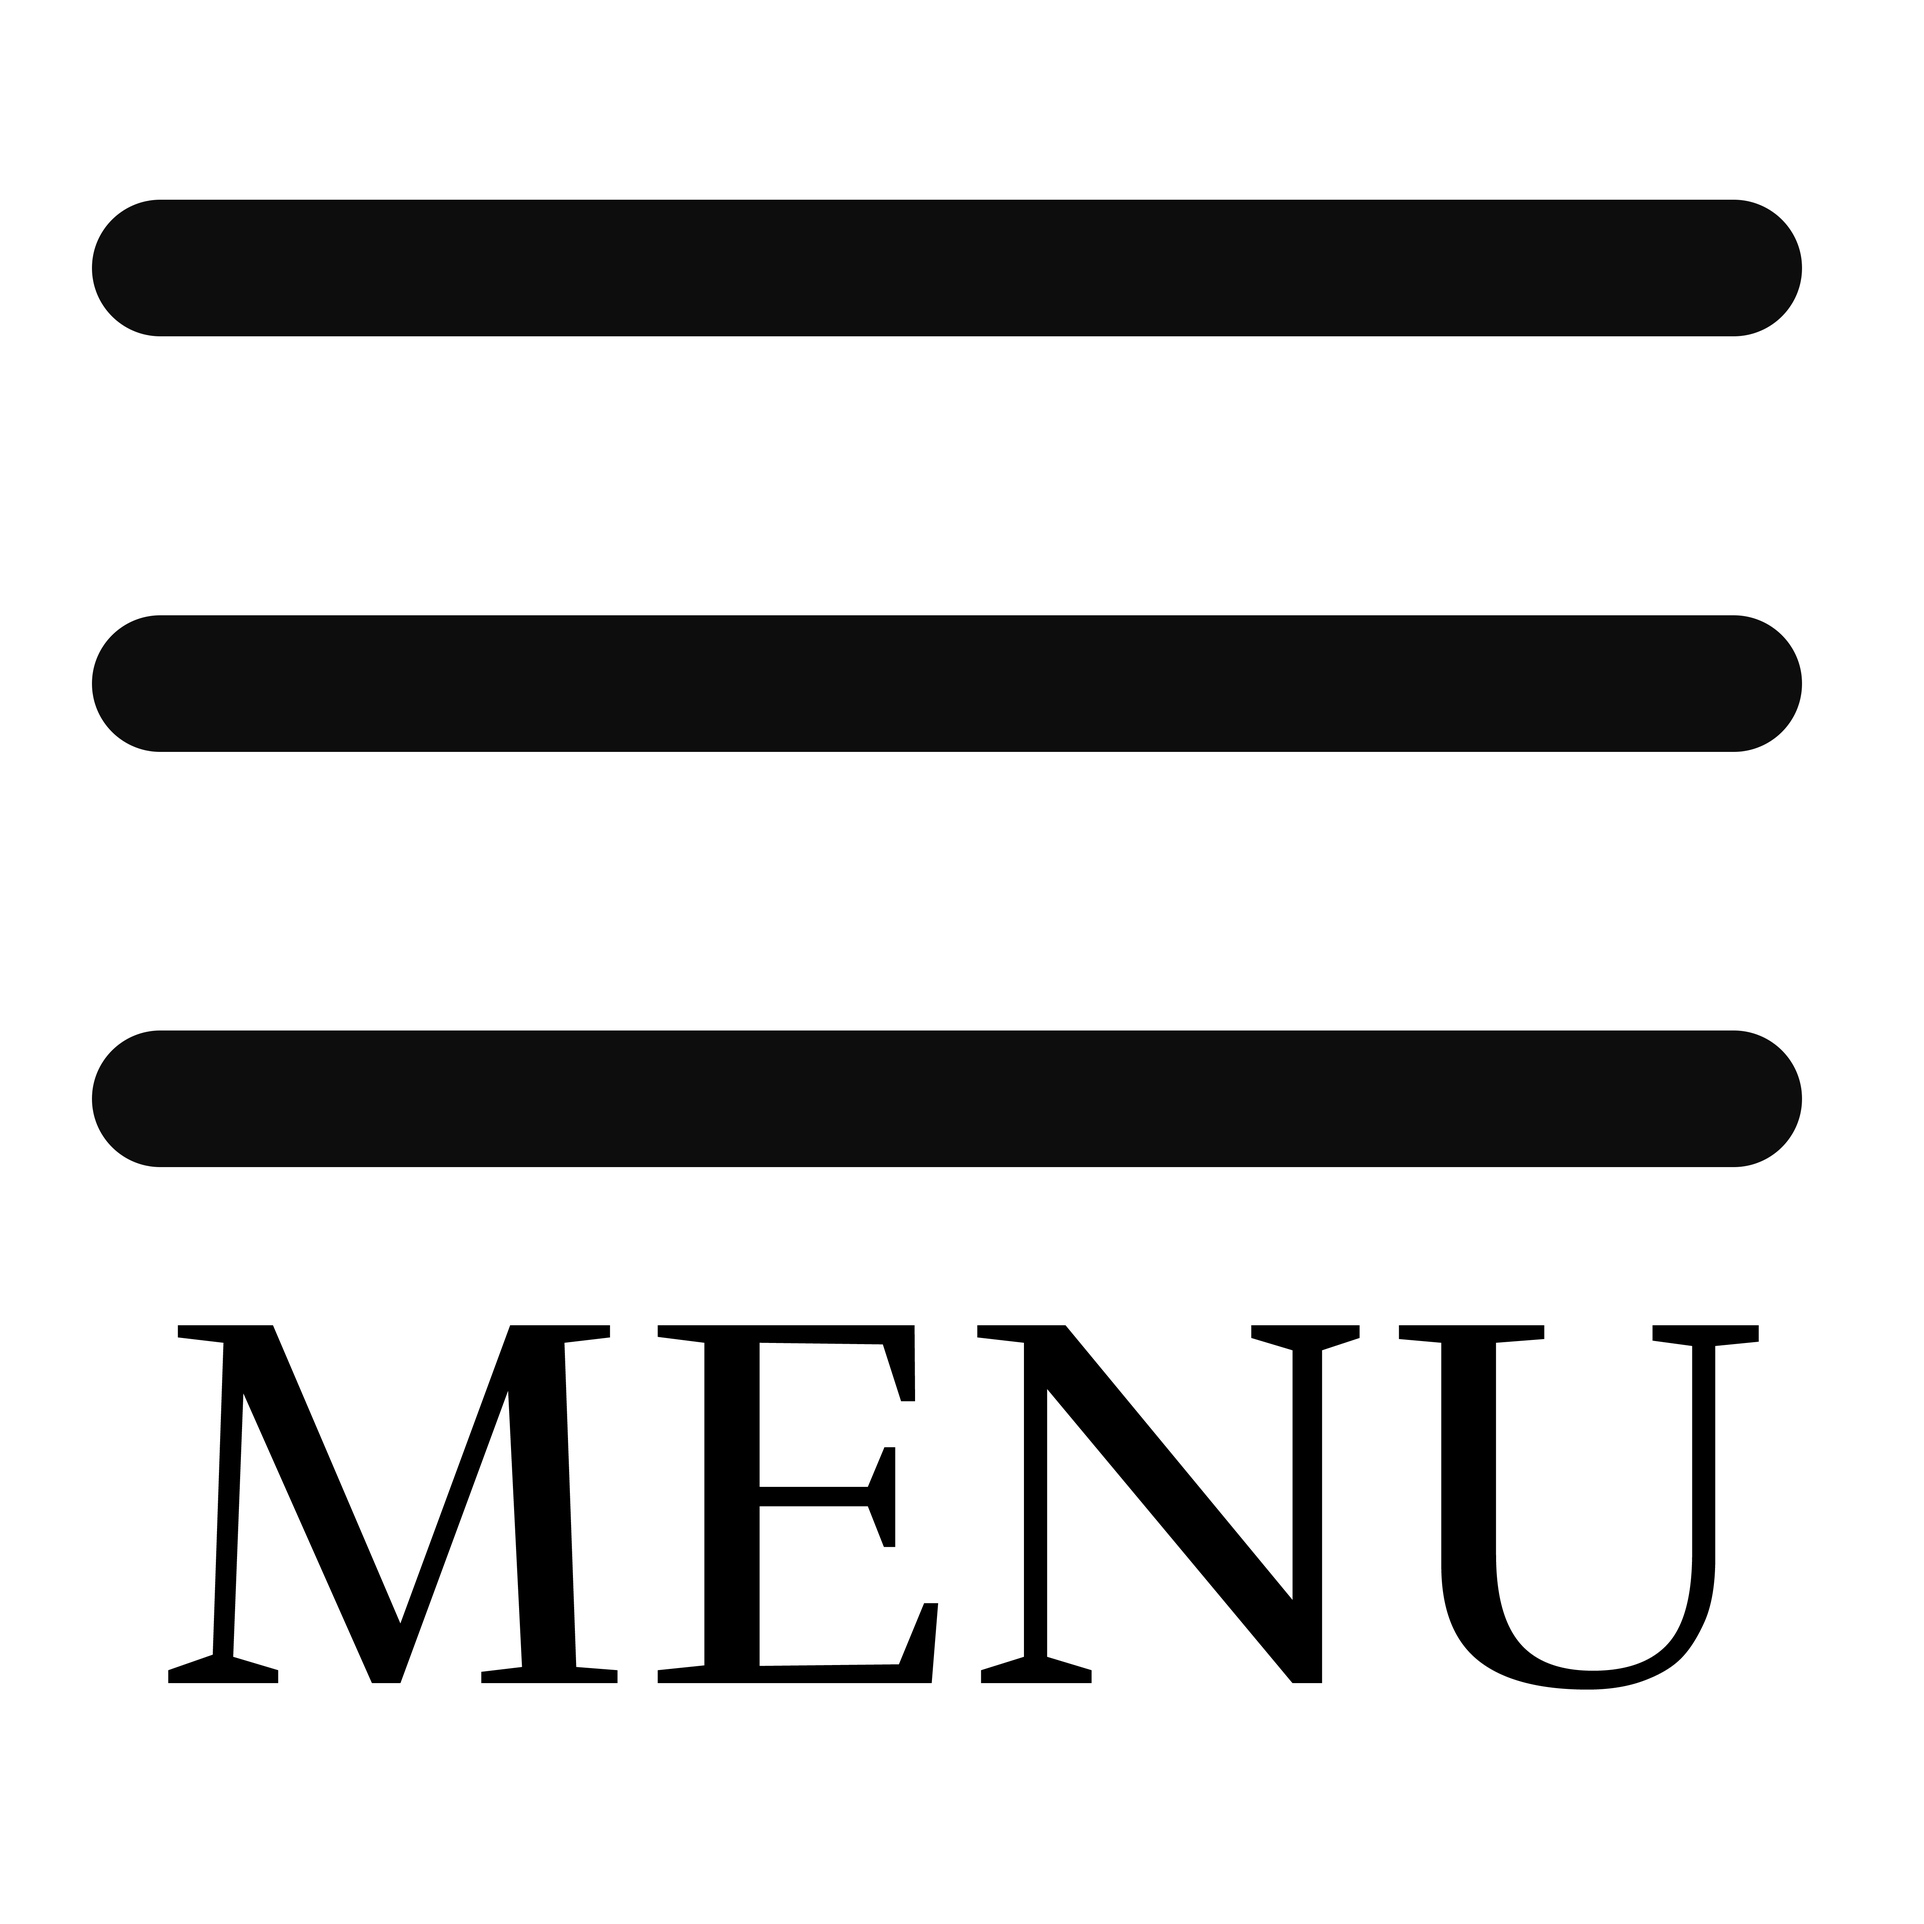
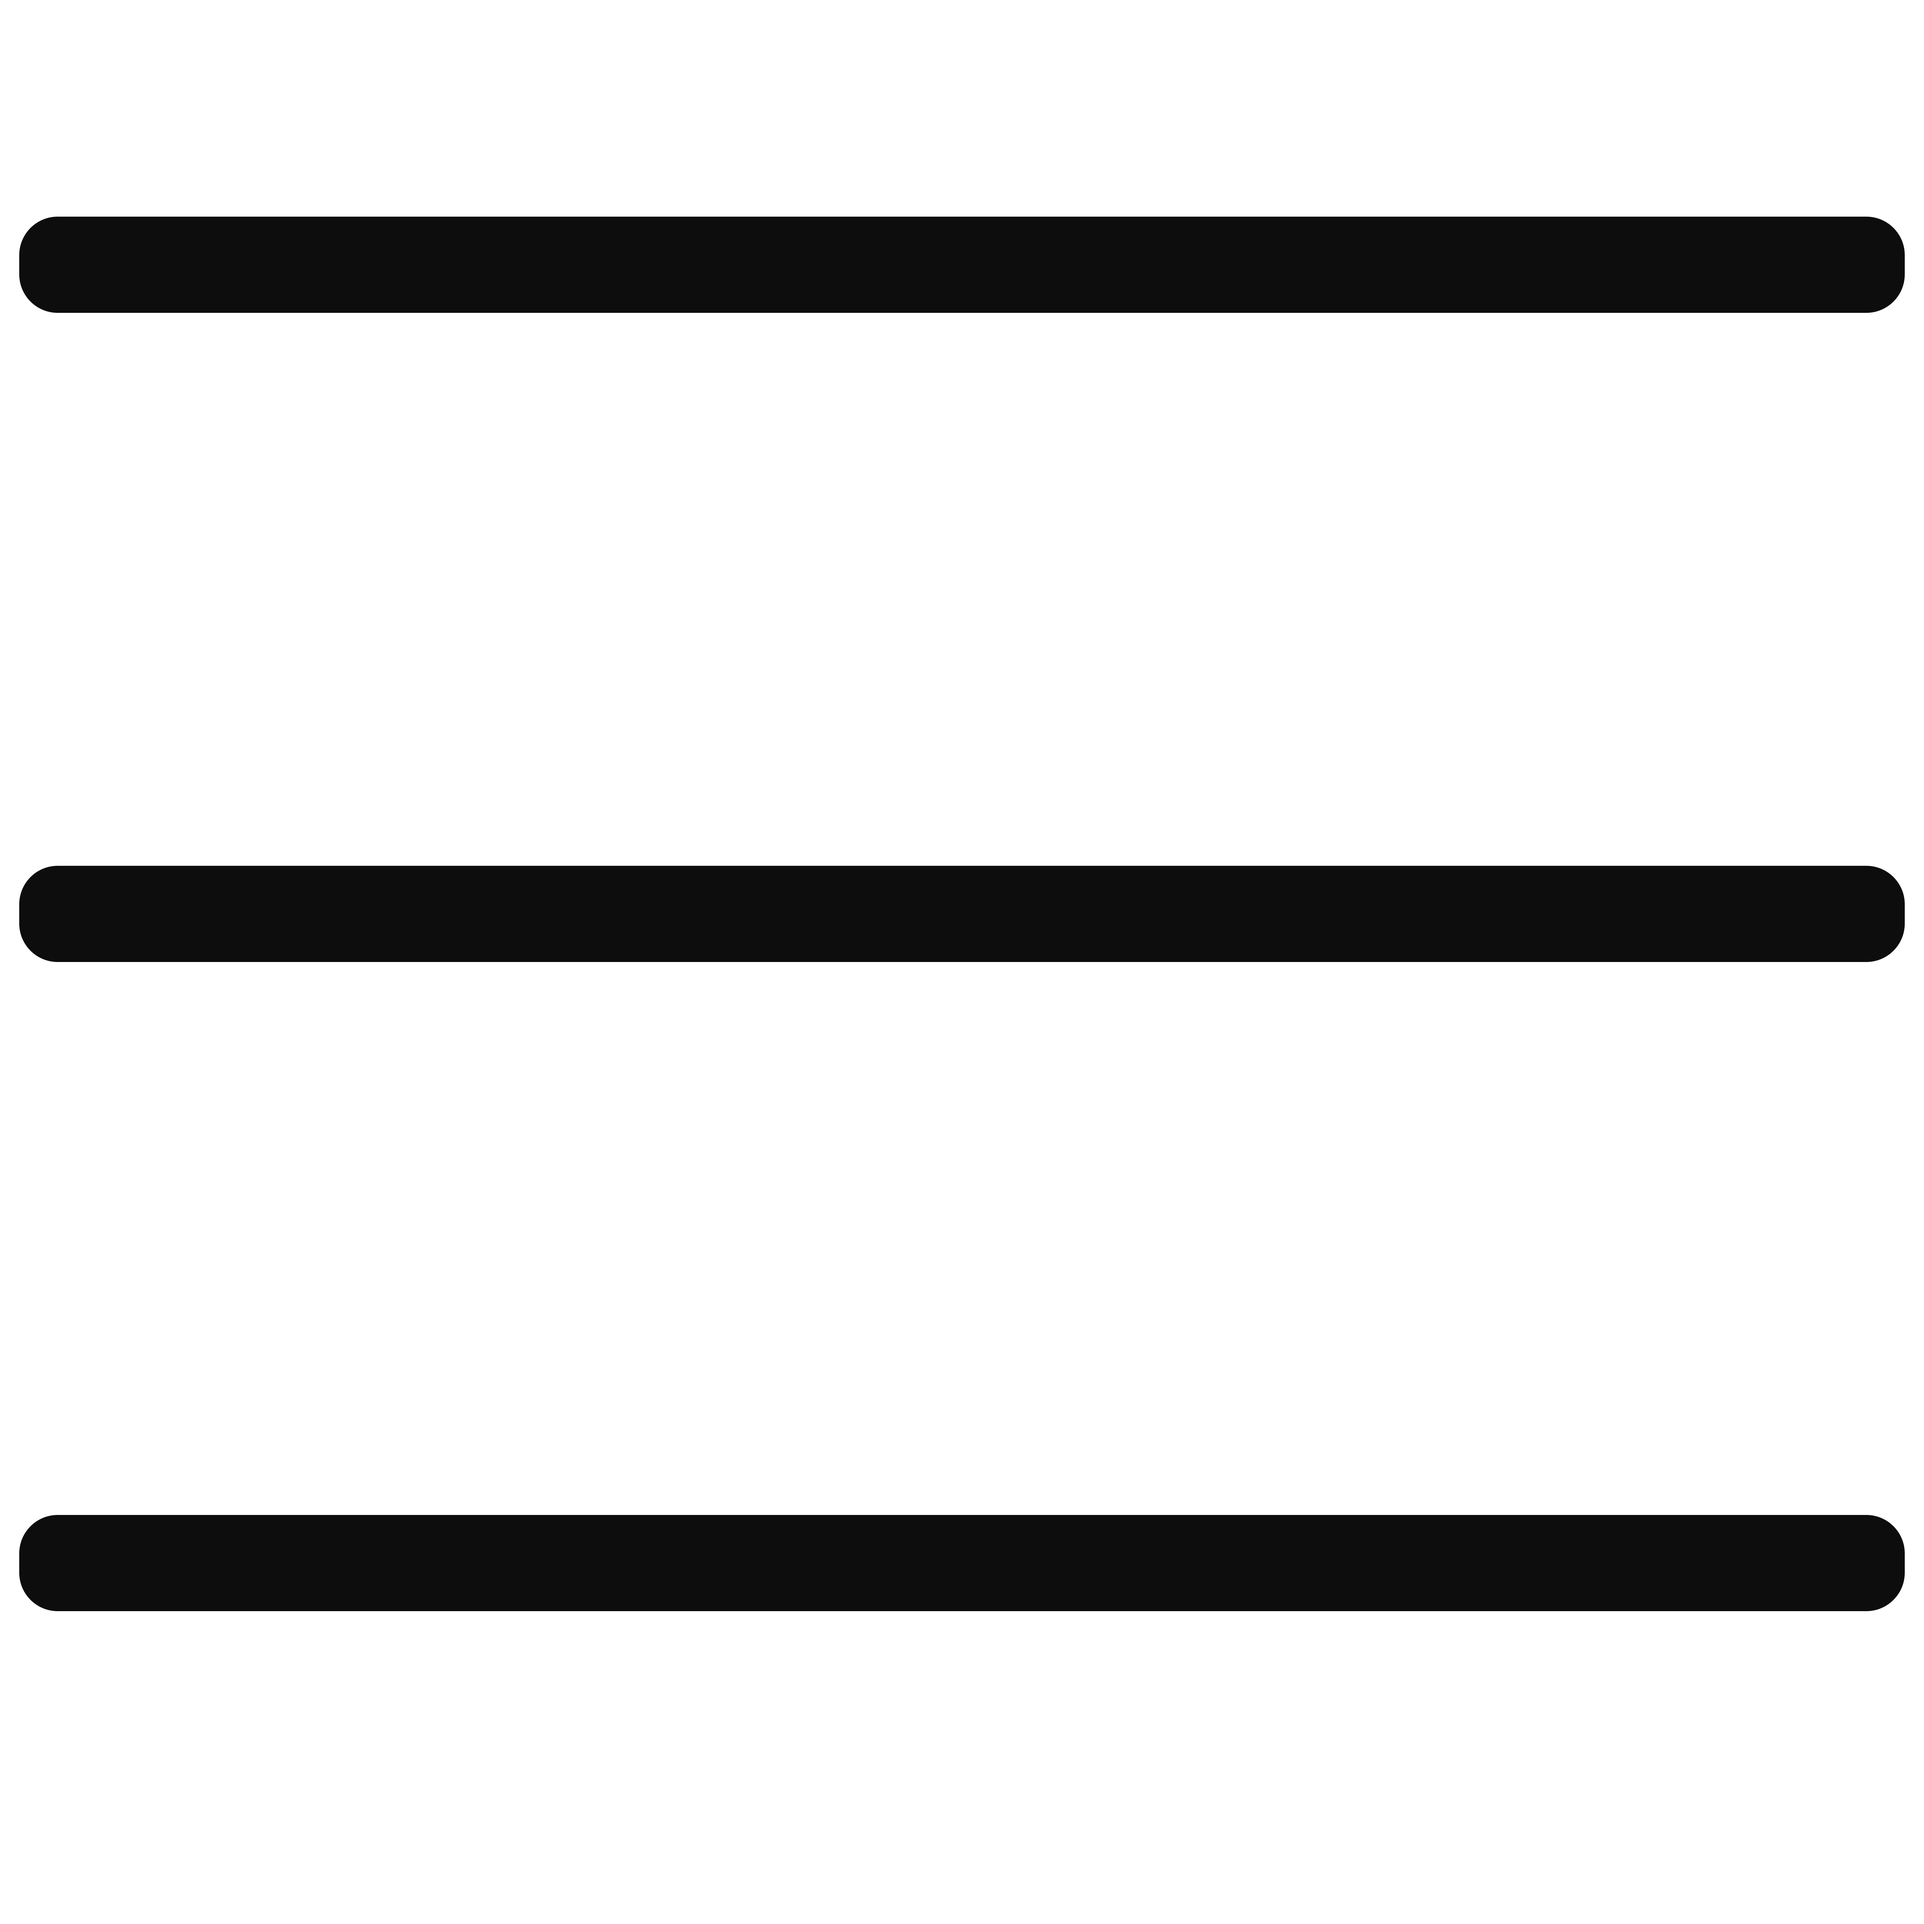
Implemented custom sidebar based on simple-sidebar by begin bootstrap

diff --git a/src/werk/templates/mainBase.html b/src/werk/templates/mainBase.html
@@ -25,24 +25,34 @@
     <div class="d-flex" id="wrapper">
   
       <!-- Sidebar -->
-      <div id="sidebar-wrapper" style="background-color: #F2DCC2;">
-        <div class="sidebar-heading" style="height: 75px;">WERK</div>
+      <div id="sidebar-wrapper" style="background-color:  #F2DCC2;">
+        <div class="sidebar-heading" style="height: 100px; font-size: 50px;">MENU</div>
         <div class="list-group list-group-flush">
           <a href="#" class="list-group-item list-group-item-action">Dashboard</a>
-          <a href="#" class="list-group-item list-group-item-action">Shortcuts</a>
-          <a href="#" class="list-group-item list-group-item-action">Overview</a>
-          <a href="#" class="list-group-item list-group-item-action">Events</a>
           <a href="#" class="list-group-item list-group-item-action">Profile</a>
-          <a href="#" class="list-group-item list-group-item-action">Status</a>
+          <a href="#" class="list-group-item list-group-item-action">Taks</a>
         </div>
       </div>
       <!-- /#sidebar-wrapper -->
-  
-      <!-- conteudo da pagina -->
-      {% block content %}
-      {% endblock %}
-  
+      <div id="page-content-wrapper">
+        <div>
+          <a id="menu-toggle" style="margin-left: -110px;"><img style="width: 60px; margin-top: 25px;" src="{% static 'images/MenuSandwich.png' %}"></a>
+        </div>
+
+        <!-- conteudo da pagina -->
+        {% block content %}
+
+        {% endblock %}
+        <div style="position: fixed; padding-top: max(200px, calc(100vh - 200px));; margin-left: -110px;">
+            <img style="width: 70px;" src="{% static 'images/logo_brown.png' %}" />
+        </div>
+      </div>
     </div>
+
+
+
+
+</body>
   
   
     <script src="{% static 'js/jquery.min.js'%}" ></script>
@@ -57,7 +67,7 @@
       });
     </script>
   
-    </body>
+
   
 </html>
   

diff --git a/src/werk/templates/home_login.html b/src/werk/templates/home_login.html
@@ -2,16 +2,7 @@
 {% load static %}
 
 {% block content %}
-<div id="page-content-wrapper">
-  <div>
-    <img style="width: 75px;" src="{% static 'images/MenuTab.png' %}">
-    <a id="menu-toggle" style="margin-left: -75px;"><img style="width: 50px; margin-top: -10px;" src="{% static 'images/MenuSandwich.png' %}"></a>
-  </div>
-  
 
 
-  <div class="container-fluid">
-   
-  </div>
-</div>
+
 {% endblock %}

diff --git a/src/static/css/sidebar.css b/src/static/css/sidebar.css
@@ -10,7 +10,7 @@
 
 #sidebar-wrapper {
   min-height: 100vh;
-  margin-left: -15rem;
+  margin-left: -25rem;
   -webkit-transition: margin .25s ease-out;
   -moz-transition: margin .25s ease-out;
   -o-transition: margin .25s ease-out;
@@ -23,7 +23,7 @@
 }
 
 #sidebar-wrapper .list-group {
-  width: 15rem;
+  width: 24rem;
 }
 
 #page-content-wrapper {
